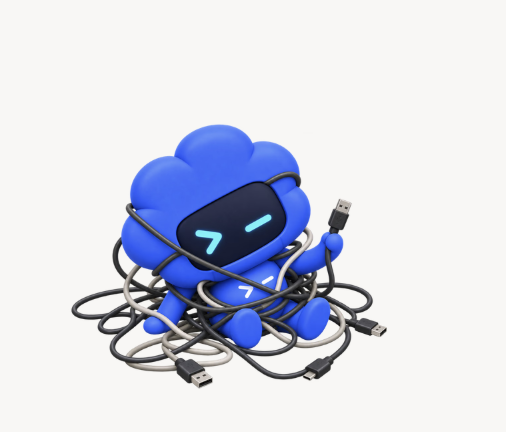
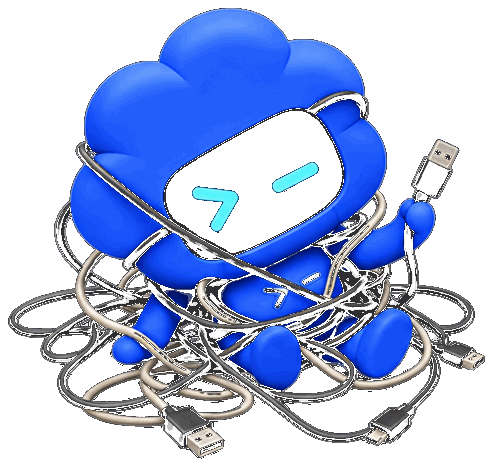
ui: 503-робот из GIF без фона, моргает левый глаз

diff --git a/frontend/src/components/ServerUnavailableState.tsx b/frontend/src/components/ServerUnavailableState.tsx
@@ -3,42 +3,40 @@ type Props = {
   onRetry?: () => void;
 };
 
-/** Экран 502/503/504 — робот в проводах, в стиле MetodiOne. */
+/**
+ * 503-экран: исходный робот из GIF (моргает левый глаз как в референсе).
+ * Робот / провода / фон не двигаем отдельно — анимация уже в файле.
+ */
 export function ServerUnavailableState({ message, onRetry }: Props) {
+  const retry = onRetry ?? (() => window.location.reload());
+  const label = onRetry ? "Повторить" : "Обновить страницу";
+
   return (
     <div
-      className="mx-auto flex w-full max-w-lg flex-col items-center px-4 py-10 text-center sm:py-14"
+      className="server-down relative mx-auto flex w-full max-w-xl flex-col items-center overflow-hidden px-5 py-12 text-center sm:py-16"
       role="alert"
       aria-live="polite"
     >
-      <img
-        src="/server-unavailable-robot.png"
-        alt=""
-        width={280}
-        height={280}
-        className="h-auto w-[min(17rem,72vw)] select-none object-contain"
-        draggable={false}
-      />
-      <h2 className="lux-heading mt-6 text-[1.35rem] leading-snug text-[var(--mo-text)] sm:text-[1.5rem]">
-        Сервер клиники сейчас отдыхает
-      </h2>
-      <p className="mt-2 max-w-sm text-sm leading-relaxed text-[var(--mo-text-muted)]">
+      <div className="server-down__glow" aria-hidden />
+      <div className="server-down__figure">
+          <img
+            src="/server-unavailable-robot.gif?v=2"
+            alt=""
+            width={493}
+            height={467}
+            className="server-down__robot"
+            draggable={false}
+          />
+      </div>
+      <p className="server-down__eyebrow">503 · нет связи</p>
+      <h2 className="server-down__title">Сервер клиники сейчас отдыхает</h2>
+      <p className="server-down__text">
         {message?.trim() ||
           "Связь с API временно пропала. Подождите немного и обновите — обычно это проходит само."}
       </p>
-      {onRetry ? (
-        <button type="button" className="btn-primary mt-6 min-h-11 px-5" onClick={onRetry}>
-          Повторить
-        </button>
-      ) : (
-        <button
-          type="button"
-          className="btn-primary mt-6 min-h-11 px-5"
-          onClick={() => window.location.reload()}
-        >
-          Обновить страницу
-        </button>
-      )}
+      <button type="button" className="btn-primary server-down__cta" onClick={retry}>
+        {label}
+      </button>
     </div>
   );
 }

diff --git a/frontend/src/index.css b/frontend/src/index.css
@@ -7693,6 +7693,104 @@ fieldset.extra-services-field {
   color: var(--mo-text-muted);
 }
 
+/* 503 / API down — робот без белой подложки */
+.server-down__glow {
+  pointer-events: none;
+  position: absolute;
+  left: 50%;
+  top: 2.5rem;
+  z-index: 0;
+  height: 14rem;
+  width: 14rem;
+  translate: -50% 0;
+  border-radius: 9999px;
+  background: radial-gradient(
+    circle,
+    color-mix(in srgb, var(--mo-accent) 28%, transparent) 0%,
+    color-mix(in srgb, var(--mo-accent) 8%, transparent) 42%,
+    transparent 72%
+  );
+  filter: blur(2px);
+  animation: server-down-pulse 3.6s ease-in-out infinite;
+}
+
+.server-down__figure {
+  position: relative;
+  z-index: 1;
+  display: flex;
+  justify-content: center;
+  width: min(18.5rem, 78vw);
+}
+
+.server-down__robot {
+  display: block;
+  width: 100%;
+  height: auto;
+  background: transparent;
+  user-select: none;
+  filter: drop-shadow(0 16px 26px color-mix(in srgb, #000 40%, transparent));
+}
+
+.server-down__eyebrow {
+  position: relative;
+  z-index: 1;
+  margin-top: 1.35rem;
+  font-size: 0.7rem;
+  font-weight: 600;
+  letter-spacing: 0.14em;
+  text-transform: uppercase;
+  color: color-mix(in srgb, var(--mo-accent) 85%, var(--mo-text-muted));
+}
+
+.server-down__title {
+  position: relative;
+  z-index: 1;
+  margin-top: 0.55rem;
+  max-width: 22rem;
+  font-family: var(--mo-font-display, inherit);
+  font-size: clamp(1.35rem, 2.6vw, 1.7rem);
+  font-weight: 650;
+  line-height: 1.25;
+  letter-spacing: -0.02em;
+  color: var(--mo-text);
+}
+
+.server-down__text {
+  position: relative;
+  z-index: 1;
+  margin-top: 0.65rem;
+  max-width: 22rem;
+  font-size: 0.9rem;
+  line-height: 1.55;
+  color: var(--mo-text-muted);
+}
+
+.server-down__cta {
+  position: relative;
+  z-index: 1;
+  margin-top: 1.5rem;
+  min-height: 2.75rem;
+  padding-inline: 1.35rem;
+}
+
+@keyframes server-down-pulse {
+  0%,
+  100% {
+    opacity: 0.75;
+    transform: translate(-50%, 0) scale(1);
+  }
+  50% {
+    opacity: 1;
+    transform: translate(-50%, 0) scale(1.06);
+  }
+}
+
+@media (prefers-reduced-motion: reduce) {
+  .server-down__glow {
+    animation: none;
+  }
+}
+
 /* Мессенджер — indigo-luxury, читаемые пузыри */
 .team-messenger {
   @apply relative mx-auto flex h-full w-full max-w-none flex-col gap-3 pb-28 sm:pb-4 lg:min-h-0 lg:flex-1 lg:overflow-hidden lg:pb-0;
